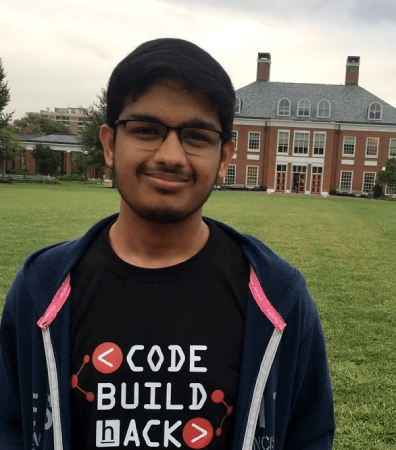
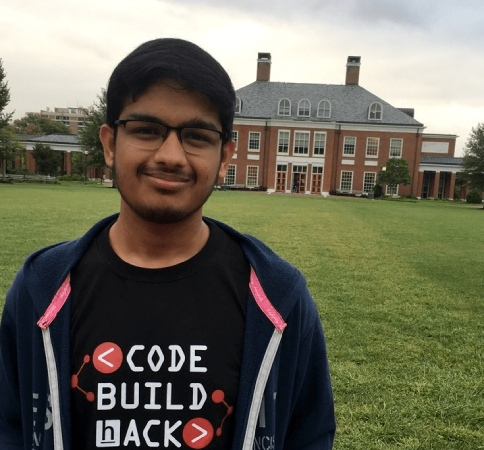
updated teams page

diff --git a/assets/css/teamStyle.css b/assets/css/teamStyle.css
@@ -155,24 +155,24 @@ nav>.navbar-brand>img{
 .card{
   border: transparent;
   overflow: hidden;
+  box-shadow: 4px 9px 9px rgba(0, 0, 0, 0.3);
   /*margin-bottom: 60px;*/
 }
 .card-body{
   /*background: url('../images/event-img.jpg') ;*/
   height: 450px;
-  width: 290px;
-  border-radius: 10px;
+  width: 350px;
   display: flex;
   justify-content: center;
   align-items: center;
 }
 
 .c1{
-   background: url('../images/team/KUNAL2.jpg') ;
+   background: url('../images/team/KUNAL2.jpg');
 }
 
 .c2{
-   background: url('../images/team/RAJAT3.jpg') ;
+   background: url('../images/team/RAJAT3.jpg') center center;
 }
 
 .c3{
@@ -180,11 +180,11 @@ nav>.navbar-brand>img{
 }
 
 .c4{
-   background: url('../images/team/Muskan_Tewari2.jpg') ;
+   background: url('../images/team/Muskan2.jpg') center center ;
 }
 
 .c5{
-   background: url('../images/team/Ishan Gupta2.jpg') ;
+   background: url('../images/team/Ishan Gupta2.jpg') center ;
 }
 
 .c6{
@@ -197,7 +197,7 @@ nav>.navbar-brand>img{
 
 .c8{
 
-   background: url('../images/team/Dipto.jpg') ;
+   background: url('../images/team/DIPTO2.jpg') ;
 }
 
 .c9{
@@ -216,7 +216,7 @@ nav>.navbar-brand>img{
 }
 
 .c13{
-   background: url('../images/team/navyaa sharma3.jpg') ;
+   background: url('../images/team/navyaa_sharma2.jpg') ;
 }
 
 .c14{
@@ -233,8 +233,7 @@ nav>.navbar-brand>img{
 	background: rgba(0, 154, 255, 0.65);
 	top: 100%;
 	left: 0;
-  border-radius: 10px;
-	position: absolute;
+  position: absolute;
 	z-index: 2;
 	width: 100%;
   height: 100%;
@@ -267,7 +266,7 @@ nav>.navbar-brand>img{
 .col-lg-4{
   /*width: 100%;*/
   height: 100%;
-  margin-top: 20px;
+  margin-top: 30px;
 }
 
 footer {
